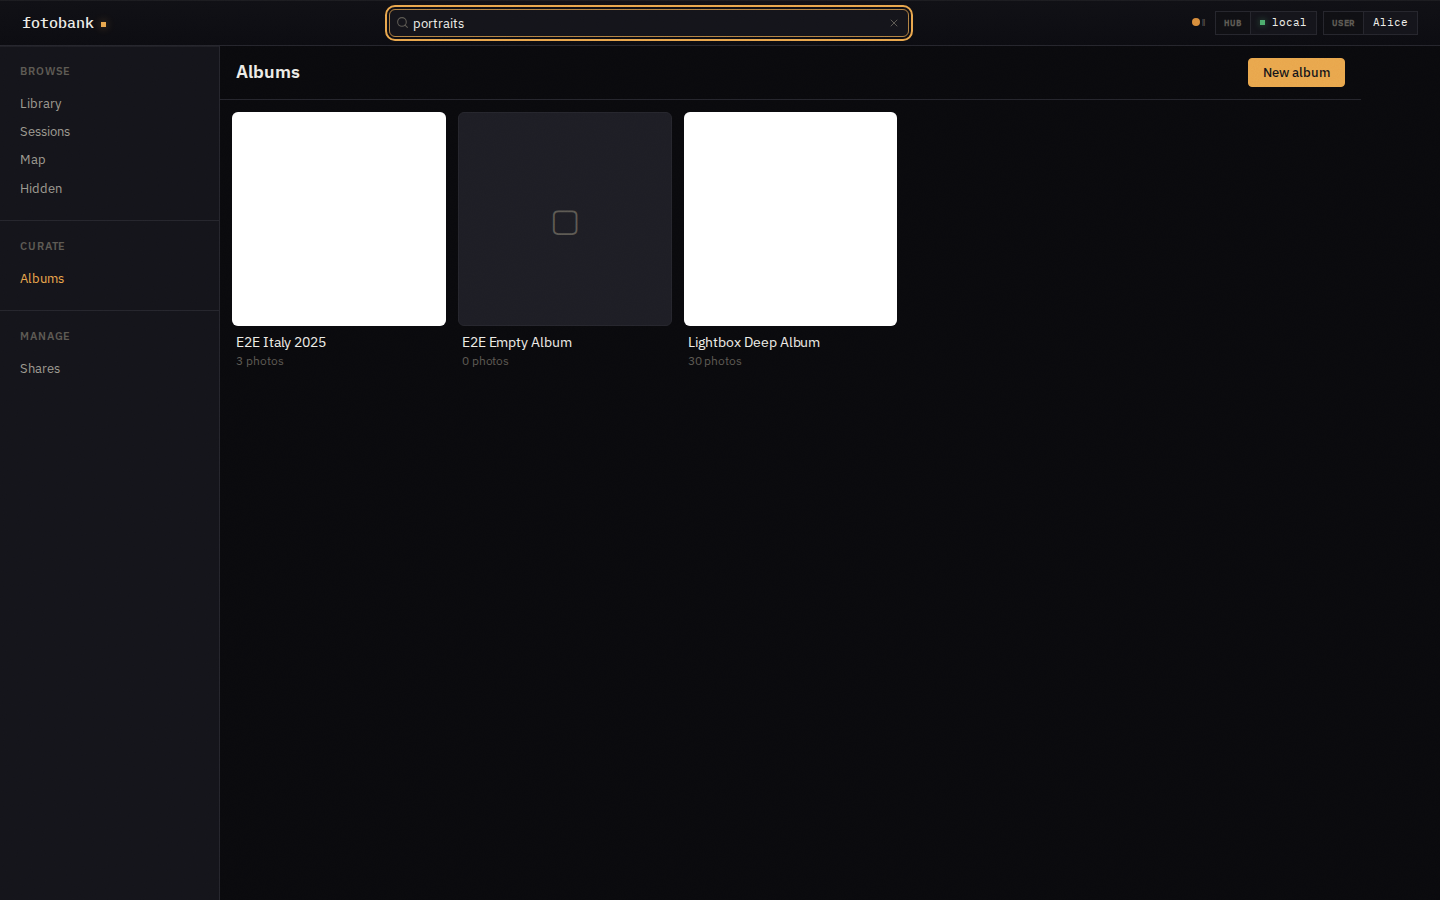
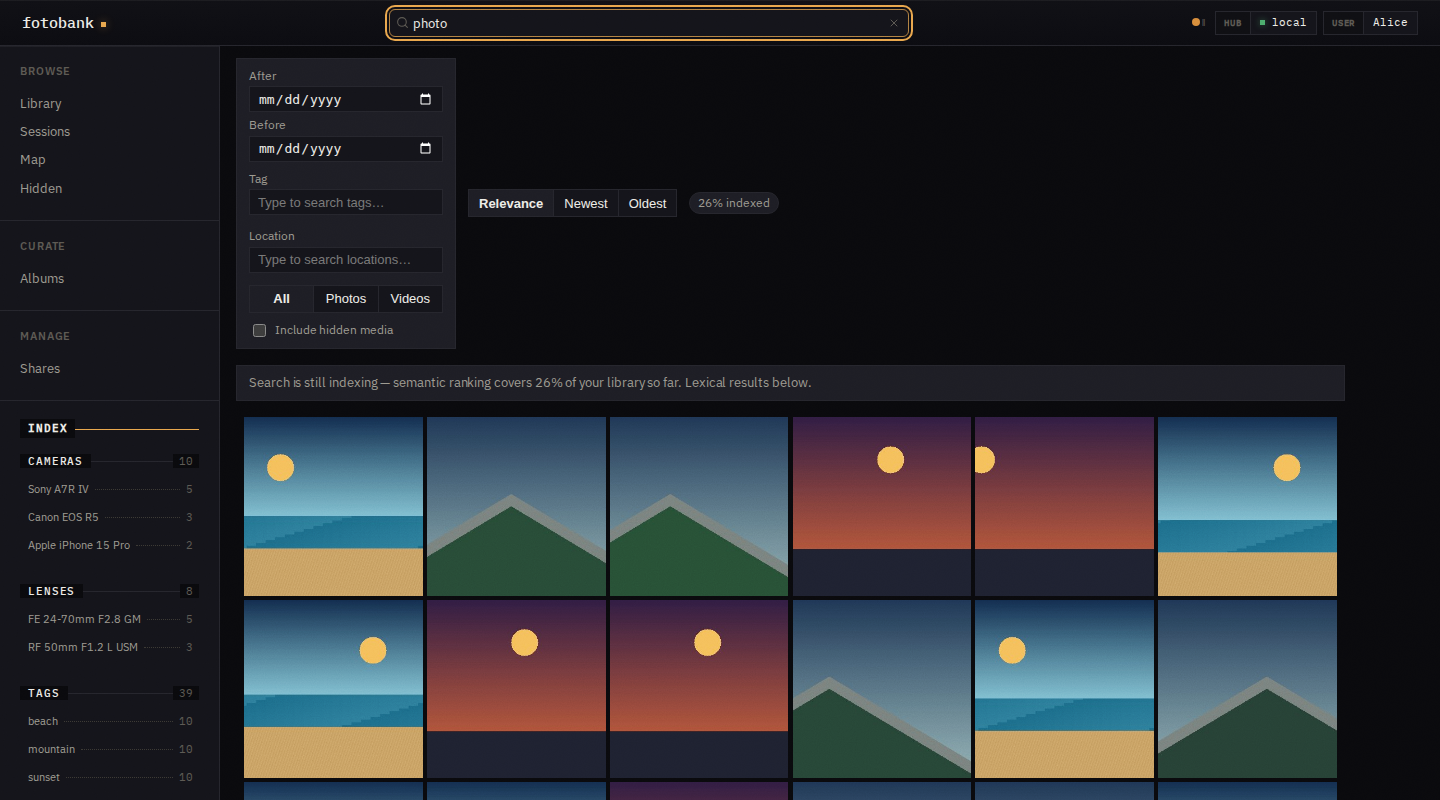
Show fully loaded media in UI evidence (#32)
Search fixtures that claim their thumbnails are ready now serve real, deterministic image bytes. This removes broken-image placeholders from browser tests and gives UI reviews a representative loaded state without using personal or ambiguously licensed photos.

The global-search architecture image now shows the actual search route with its query, filters, indexing status, and a complete result grid. Repository guidance now rejects broken images, loading shells, and placeholder media as UI evidence unless that state is the behavior being reviewed.

![Global search over loaded synthetic results](https://github.com/kenn-io/fotobank/blob/fix/credible-ui-screenshots/docs/architecture/images/global-search.png?raw=true)

diff --git a/frontend/tests/e2e/search.spec.ts b/frontend/tests/e2e/search.spec.ts
@@ -77,6 +77,16 @@ test.describe("W1 Search", () => {
     await expect(
       page.getByLabel("Photo search-fixture-vis-001"),
     ).toBeVisible({ timeout: 5_000 });
+
+    const thumbnail = page
+      .getByLabel("Photo search-fixture-vis-001")
+      .locator("img");
+    await expect(thumbnail).toBeVisible();
+    await expect
+      .poll(() =>
+        thumbnail.evaluate((image: HTMLImageElement) => image.naturalWidth),
+      )
+      .toBeGreaterThan(0);
   });
 
   // -------------------------------------------------------------------------

diff --git a/cmd/e2e-server/main.go b/cmd/e2e-server/main.go
@@ -750,7 +750,8 @@ func seedFixtures(dbPath, nasRoot, docbankRoot string) error {
 		return fmt.Errorf("seed ai fixtures: %w", err)
 	}
 
-	if err := seedSearchFixtures(ctx, d, repo, owner, insert); err != nil {
+	if err := seedSearchFixtures(ctx, d, repo, owner, nasRoot,
+		"550e8400-e29b-41d4-a716-44665544000e", insert); err != nil {
 		return fmt.Errorf("seed search fixtures: %w", err)
 	}
 
@@ -1225,10 +1226,10 @@ func seedAIFixtures(
 	resultsRepo := results.NewRepo(d.WriteDB(), d.ReadDB())
 	failuresRepo := failures.NewRepo(d.WriteDB(), d.ReadDB())
 
-	// One small valid JPEG shared by both fixtures; the imginput resolver
+	// One deterministic JPEG is shared by both fixtures; the imginput resolver
 	// just needs decodable bytes to scale and re-encode at ProfileV1's
-	// 1024-edge target.
-	previewJPEG, err := smallTestJPEG()
+	// 1024-edge target. Grid bytes keep ready fixtures visually complete.
+	previewJPEG, err := syntheticSearchJPEG("mountain", 8)
 	if err != nil {
 		return fmt.Errorf("encode ai fixture preview jpeg: %w", err)
 	}
@@ -1248,8 +1249,9 @@ func seedAIFixtures(
 	}); err != nil {
 		return fmt.Errorf("seed %s: %w", taggedID, err)
 	}
-	if err := writePreviewBlob(nasRoot, storageKey, taggedID, previewJPEG); err != nil {
-		return fmt.Errorf("write preview blob for %s: %w", taggedID, err)
+	if err := writeFixtureThumbs(nasRoot, storageKey, taggedID, previewJPEG,
+		thumb.SizeGrid, thumb.SizePreview); err != nil {
+		return fmt.Errorf("write thumbnails for %s: %w", taggedID, err)
 	}
 	tags := []parse.Tag{
 		{Key: "e2e-tag-a", Label: "e2e-tag-a", Rank: 1},
@@ -1278,8 +1280,9 @@ func seedAIFixtures(
 	}); err != nil {
 		return fmt.Errorf("seed %s: %w", failedID, err)
 	}
-	if err := writePreviewBlob(nasRoot, storageKey, failedID, previewJPEG); err != nil {
-		return fmt.Errorf("write preview blob for %s: %w", failedID, err)
+	if err := writeFixtureThumbs(nasRoot, storageKey, failedID, previewJPEG,
+		thumb.SizeGrid, thumb.SizePreview); err != nil {
+		return fmt.Errorf("write thumbnails for %s: %w", failedID, err)
 	}
 	if err := resultsRepo.WriteTagResult(ctx, failedID, tagFP, tagPrompt.Hash, tags); err != nil {
 		return fmt.Errorf("seed tag result for %s: %w", failedID, err)
@@ -1317,19 +1320,25 @@ func smallTestJPEG() ([]byte, error) {
 	return buf.Bytes(), nil
 }
 
-// writePreviewBlob writes the preview-tier thumbnail bytes for an AI
-// fixture under <nasRoot>/<storageKey>/<thumb.ThumbKey(id, 0, preview)>.
+// writeFixtureThumbs writes thumbnail bytes for an e2e fixture under
+// <nasRoot>/<storageKey>/<thumb.ThumbKey(id, 0, size)>.
 // Bypasses storage.NewNASOnly so the seed function doesn't need to
 // reconstruct a principal→storage_key map; the e2e server has exactly
 // one owner.
-func writePreviewBlob(nasRoot, storageKey, mediaID string, jpg []byte) error {
-	key := thumb.ThumbKey(mediaID, 0, thumb.SizePreview)
-	full := filepath.Join(nasRoot, storageKey, filepath.FromSlash(key))
-	if err := os.MkdirAll(filepath.Dir(full), 0o700); err != nil {
-		return fmt.Errorf("mkdir: %w", err)
-	}
-	if err := os.WriteFile(full, jpg, 0o600); err != nil {
-		return fmt.Errorf("write %s: %w", full, err)
+func writeFixtureThumbs(
+	nasRoot, storageKey, mediaID string,
+	jpg []byte,
+	sizes ...thumb.Size,
+) error {
+	for _, size := range sizes {
+		key := thumb.ThumbKey(mediaID, 0, size)
+		full := filepath.Join(nasRoot, storageKey, filepath.FromSlash(key))
+		if err := os.MkdirAll(filepath.Dir(full), 0o700); err != nil {
+			return fmt.Errorf("mkdir: %w", err)
+		}
+		if err := os.WriteFile(full, jpg, 0o600); err != nil {
+			return fmt.Errorf("write %s: %w", full, err)
+		}
 	}
 	return nil
 }
@@ -1339,7 +1348,8 @@ func writePreviewBlob(nasRoot, storageKey, mediaID string, jpg []byte) error {
 // active tag + caption results for each (so FTS picks them up), an
 // active embedding generation matching cfg.AI.Embed, and 22/30
 // media_embedding_ids mappings for the visible photos so embedding
-// completeness lands at ≈73% — under the 80% banner threshold.
+// completeness lands at ≈73% — under the 80% banner threshold. Every ready
+// row also gets a decodable grid thumbnail so the browser fixture is honest.
 //
 // Captions are seeded with a deterministic three-keyword pattern
 // ("beach", "mountain", or "sunset") so the Playwright suite can
@@ -1356,6 +1366,7 @@ func seedSearchFixtures(
 	d *db.DB,
 	mediaRepo *media.Repo,
 	owner owners.Principal,
+	nasRoot, storageKey string,
 	insert func(media.Media) error,
 ) error {
 	base := time.Date(2026, 4, 1, 12, 0, 0, 0, time.UTC)
@@ -1389,6 +1400,13 @@ func seedSearchFixtures(
 			return fmt.Errorf("seed %s: %w", id, err)
 		}
 		kw := keywords[(i-1)%len(keywords)]
+		jpg, err := syntheticSearchJPEG(kw, i)
+		if err != nil {
+			return fmt.Errorf("render thumbnail for %s: %w", id, err)
+		}
+		if err := writeFixtureThumbs(nasRoot, storageKey, id, jpg, thumb.SizeGrid); err != nil {
+			return fmt.Errorf("write thumbnail for %s: %w", id, err)
+		}
 		caption := fmt.Sprintf("A %s photo numbered %d.", kw, i)
 		if err := writeSearchAIResults(ctx, d, id, kw, caption); err != nil {
 			return fmt.Errorf("seed ai results for %s: %w", id, err)
@@ -1414,6 +1432,13 @@ func seedSearchFixtures(
 			ThumbStatus:        "ready",
 		}); err != nil {
 			return fmt.Errorf("seed %s: %w", id, err)
+		}
+		jpg, err := syntheticSearchJPEG("hidden", i)
+		if err != nil {
+			return fmt.Errorf("render thumbnail for %s: %w", id, err)
+		}
+		if err := writeFixtureThumbs(nasRoot, storageKey, id, jpg, thumb.SizeGrid); err != nil {
+			return fmt.Errorf("write thumbnail for %s: %w", id, err)
 		}
 		if err := writeSearchAIResults(
 			ctx, d, id, "hiddencache",
@@ -1492,6 +1517,99 @@ func seedSearchFixtures(
 	}
 
 	return nil
+}
+
+// syntheticSearchJPEG renders small deterministic scenes for search fixtures.
+// They are deliberately illustrative rather than photographic: screenshots
+// should exercise real image loading without importing personal photos or
+// disguising generated artwork as user content.
+func syntheticSearchJPEG(keyword string, index int) ([]byte, error) {
+	const width, height = 480, 320
+	img := image.NewRGBA(image.Rect(0, 0, width, height))
+	horizon := 170 + index%4*7
+
+	for y := range height {
+		for x := range width {
+			var pixel color.RGBA
+			switch keyword {
+			case "beach":
+				switch {
+				case y < horizon:
+					pixel = verticalBlend(y, horizon,
+						color.RGBA{R: 20, G: 46, B: 78, A: 255},
+						color.RGBA{R: 126, G: 190, B: 207, A: 255})
+				case y < horizon+58:
+					wave := uint8((x/17 + y/5 + index*3) % 18) //nolint:gosec // bounded fixture color
+					pixel = color.RGBA{R: 28 + wave, G: 108 + wave, B: 137 + wave, A: 255}
+				default:
+					grain := uint8((x*3 + y + index*11) % 14) //nolint:gosec // bounded fixture color
+					pixel = color.RGBA{R: 194 + grain, G: 154 + grain, B: 96 + grain/2, A: 255}
+				}
+			case "mountain":
+				ridge := 138 + int(math.Abs(float64(x-(145+index%5*43))))*3/5
+				switch {
+				case y < ridge:
+					pixel = verticalBlend(y, height,
+						color.RGBA{R: 31, G: 55, B: 84, A: 255},
+						color.RGBA{R: 146, G: 178, B: 181, A: 255})
+				case y < ridge+22:
+					pixel = color.RGBA{R: 119, G: 128, B: 124, A: 255}
+				default:
+					pixel = color.RGBA{R: 39, G: 64 + uint8(index%4*5), B: 54, A: 255}
+				}
+			case "sunset":
+				pixel = verticalBlend(y, height,
+					color.RGBA{R: 48, G: 29, B: 66, A: 255},
+					color.RGBA{R: 221, G: 103, B: 55, A: 255})
+				if y > 235 {
+					pixel = color.RGBA{R: 30, G: 33, B: 48, A: 255}
+				}
+			default:
+				pixel = verticalBlend(y, height,
+					color.RGBA{R: 45, G: 48, B: 57, A: 255},
+					color.RGBA{R: 112, G: 102, B: 91, A: 255})
+			}
+			img.SetRGBA(x, y, pixel)
+		}
+	}
+
+	if keyword == "beach" || keyword == "sunset" {
+		sunX := 90 + index%6*55
+		sunY := 76 + index%3*14
+		drawDisc(img, sunX, sunY, 24, color.RGBA{R: 244, G: 190, B: 91, A: 255})
+	}
+
+	var buf bytes.Buffer
+	if err := jpeg.Encode(&buf, img, &jpeg.Options{Quality: 88}); err != nil {
+		return nil, fmt.Errorf("encode search fixture: %w", err)
+	}
+	return buf.Bytes(), nil
+}
+
+func verticalBlend(position, extent int, top, bottom color.RGBA) color.RGBA {
+	if extent <= 0 {
+		return top
+	}
+	t := float64(position) / float64(extent)
+	if t > 1 {
+		t = 1
+	}
+	blend := func(a, b uint8) uint8 {
+		return uint8(float64(a)*(1-t) + float64(b)*t)
+	}
+	return color.RGBA{R: blend(top.R, bottom.R), G: blend(top.G, bottom.G), B: blend(top.B, bottom.B), A: 255}
+}
+
+func drawDisc(img *image.RGBA, centerX, centerY, radius int, fill color.RGBA) {
+	radiusSquared := radius * radius
+	for y := centerY - radius; y <= centerY+radius; y++ {
+		for x := centerX - radius; x <= centerX+radius; x++ {
+			dx, dy := x-centerX, y-centerY
+			if dx*dx+dy*dy <= radiusSquared && image.Pt(x, y).In(img.Bounds()) {
+				img.SetRGBA(x, y, fill)
+			}
+		}
+	}
 }
 
 // writeSearchAIResults seeds an active tag + caption for mediaID and

diff --git a/AGENTS.md b/AGENTS.md
@@ -144,7 +144,10 @@ Don't track ad-hoc one-turn tasks in kata — it's for outstanding designed/plan
    review decision or explains a product risk.
 8. A pull request that changes the web interface must include a screenshot of
    the actual rendered result using synthetic data. Inspect it before
-   publishing; never substitute a mockup for the implementation.
+   publishing; never substitute a mockup for the implementation. Use a fully
+   loaded, representative state: broken images, loading shells, and placeholder
+   media are not acceptable evidence unless that state is the behavior under
+   review.
 9. Do not poll, watch, repeatedly query, or wait for GitHub Actions unless the
    user explicitly asks you to monitor CI. Opening or updating a pull request
    does not grant that authority. Report any immediately available status and

diff --git a/docs/architecture/frontend.md b/docs/architecture/frontend.md
@@ -85,7 +85,7 @@ behavior. The shared control owns the search icon, shortcut badge, and clear
 action; `SearchBar.svelte` owns query synchronization, the global keyboard
 shortcut, and trimmed submission to the router.
 
-![Global search field with its clear action](images/global-search.png)
+![Global search over loaded synthetic results](images/global-search.png)
 
 `make frontend-check` runs `kit-ui-check` in warning mode alongside type checks
 and unit tests. Warnings identify remaining local control equivalents without
